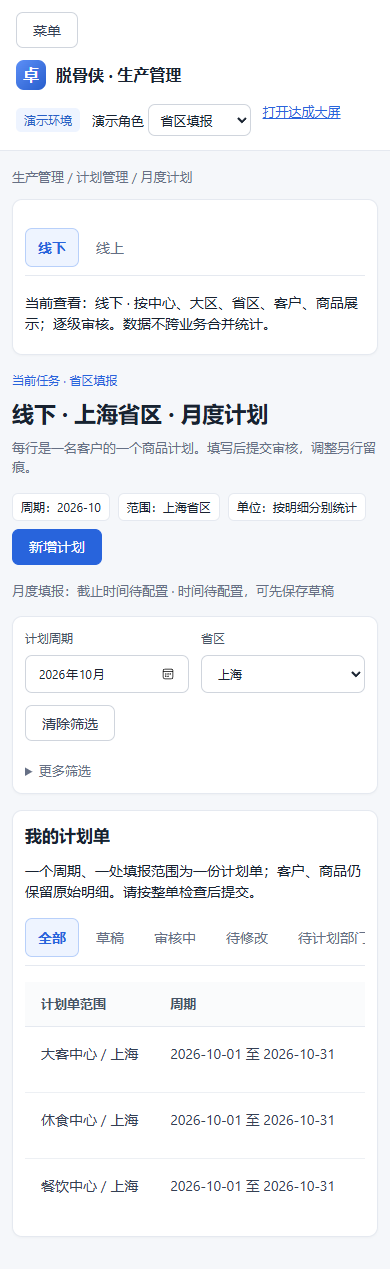
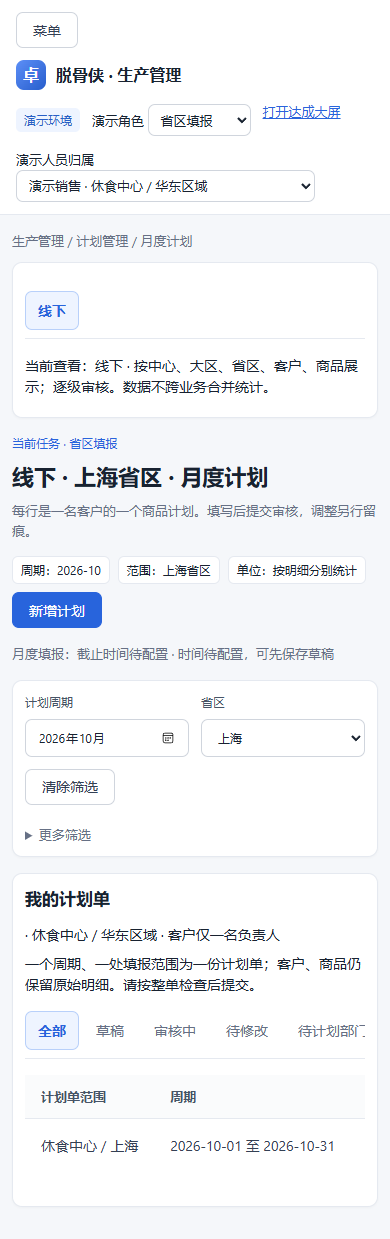
Auto sync 2026-10-13 09:41:20

diff --git a/09-设计与原型/销售计划管理/人员归属治理.js b/09-设计与原型/销售计划管理/人员归属治理.js
@@ -14,7 +14,7 @@
   if(a.view()==='plans'&&a.role()==='省区填报'){const user=person(d),province=document.querySelector('[data-filter=province]');if(province){province.innerHTML=user.provinces.map(v=>'<option value="'+E(v)+'" '+(a.filters().province===v?'selected':'')+'>'+E(v)+'</option>').join('');}document.querySelector('#planSheets h2')?.insertAdjacentText('afterend',' · '+user.center+' / '+user.area+' · 客户仅一名负责人');}
   if(a.view()==='salesHistory'||a.view()==='analysis'){const s=d.salesSync[a.filters().business],notice=document.createElement('p');notice.className='notice';notice.textContent='数据同步：'+(s.complete?'完整':'未确认完整')+' · 来源 '+s.source+' · 区间 '+(s.from||'待接入')+' 至 '+(s.to||'待接入')+' · 最近同步 '+(s.at||'待接入')+'。未完整同步的无记录不能视为零。';document.getElementById('content').prepend(notice);}
   if(a.view()==='demoStates'){document.querySelectorAll('[data-demo-open]').forEach(b=>{const v=d.demoScenarios.find(v=>v.id===b.dataset.demoOpen);if(v&&/承接|承诺|交付|待销售确认|重评/.test(v.name))b.closest('tr')?.remove();});}
-  if(a.view()==='monthRecap'){const card=document.createElement('section');card.className='card';card.innerHTML='<h3>月末复盘快照</h3><p>保存当前月份、业务、批准版本、销量来源口径及分摊结果；后续调整不覆盖已保存快照。只允许保存已结束月份。</p><button id="saveRecapSnapshot">保存月末快照</button><div id="snapshotList"></div>';document.getElementById('content').append(card);const show=()=>{card.querySelector('#snapshotList').innerHTML=d.recapSnapshots.filter(s=>s.business===a.filters().business).map((s,i)=>'<p>'+E(s.month)+' · '+E(s.at)+' · '+E(s.by)+' <button data-snapshot="'+s.id+'">查看固定结果</button></p>').join('');card.querySelectorAll('[data-snapshot]').forEach(b=>b.onclick=()=>{const s=d.recapSnapshots.find(s=>s.id===b.dataset.snapshot);a.modal('固定复盘快照',s.html);});};show();card.querySelector('#saveRecapSnapshot').onclick=()=>{const month=document.getElementById('recapMonth').value,now=new Intl.DateTimeFormat('sv-SE',{timeZone:'Asia/Shanghai'}).format(new Date()).slice(0,7);if(month>=now)return a.message('月份尚未结束，只能预览，不能保存月末快照。');const html=document.getElementById('monthRecap').innerHTML.replace(/<button\b[^>]*>[\s\S]*?<\/button>/g,'');d.recapSnapshots.push({id:'SNAP-'+Date.now(),month,business:a.filters().business,at:new Date().toISOString(),by:a.role(),html,versions:d.plans.filter(p=>SalesPlan.effective(p)&&p.business===a.filters().business&&PlanBusiness.canView(d,a.role(),p)).map(p=>({id:p.id,version:p.version,qty:p.qty,start:p.start,end:p.end})),sync:structuredClone(d.salesSync[a.filters().business]),returns:d.rules.returns,allocation:'calendar-days'});if(a.persist()){show();a.message('快照已保存，后续数据变化不会覆盖。');}};}
+  if(a.view()==='monthRecap'){const card=document.createElement('section');card.className='card';card.innerHTML='<h3>月末复盘快照</h3><p>保存当前月份、业务、批准版本、销量来源口径及分摊结果；后续调整不覆盖已保存快照。只允许保存已结束月份。</p><button id="saveRecapSnapshot">保存月末快照</button><div id="snapshotList"></div>';document.getElementById('content').append(card);const show=()=>{card.querySelector('#snapshotList').innerHTML=d.recapSnapshots.filter(s=>s.business===a.filters().business).map((s,i)=>'<p>'+E(s.month)+' · '+E(s.at)+' · '+E(s.by)+' <button data-snapshot="'+s.id+'">查看固定结果</button></p>').join('');card.querySelectorAll('[data-snapshot]').forEach(b=>b.onclick=()=>{const s=d.recapSnapshots.find(s=>s.id===b.dataset.snapshot);a.modal('固定复盘快照',s.html);});};show();card.querySelector('#saveRecapSnapshot').onclick=()=>{const month=document.getElementById('recapMonth').value,now=new Intl.DateTimeFormat('sv-SE',{timeZone:'Asia/Shanghai'}).format(new Date()).slice(0,7);if(month>=now)return a.message('月份尚未结束，只能预览，不能保存月末快照。');const copy=document.getElementById('monthRecap').cloneNode(true);copy.querySelectorAll('input,select').forEach(el=>{const text=document.createElement('span');text.textContent=el.tagName==='SELECT'?el.selectedOptions[0]?.textContent||el.value:el.value;el.replaceWith(text);});copy.querySelectorAll('button').forEach(el=>el.remove());const html=copy.innerHTML;d.recapSnapshots.push({id:'SNAP-'+Date.now(),month,business:a.filters().business,at:new Date().toISOString(),by:a.role(),html,versions:d.plans.filter(p=>SalesPlan.effective(p)&&p.business===a.filters().business&&PlanBusiness.canView(d,a.role(),p)).map(p=>({id:p.id,version:p.version,qty:p.qty,start:p.start,end:p.end})),sync:structuredClone(d.salesSync[a.filters().business]),returns:d.rules.returns,allocation:'calendar-days'});if(a.persist()){show();a.message('快照已保存，后续数据变化不会覆盖。');}};}
  }
  window.PersonGovernance={current:()=>person(currentData),initialize,person,visible,fill,proposalGuard,decorate};
 })();

diff --git a/09-设计与原型/销售计划管理/销售计划管理.css b/09-设计与原型/销售计划管理/销售计划管理.css
@@ -70,3 +70,4 @@ dialog .actions{flex-wrap:wrap}dialog .actions button{white-space:normal}
 .summary-tabs button[aria-pressed=true]{background:#eef4ff;border-color:#b8d0fa;color:var(--brand);font-weight:600}.history-query-dialog{max-width:1400px}.history-query-dialog .filters{display:flex;flex-wrap:wrap;gap:16px;padding:16px 0}.history-query-dialog .filters label{flex:1 1 180px;min-width:0}.history-query-dialog select,.history-query-dialog input{max-width:100%}.history-query-dialog [data-history-detail]{margin-top:24px}[data-history-error]:empty{display:none}
 body:not(.screen) header{position:fixed;top:0;left:0;right:0;z-index:12}body:not(.screen) main{padding-top:calc(var(--nav-top,58px) + 24px)}body:not(.screen) #stableSidebar{position:fixed;top:var(--nav-top,58px);left:0;bottom:0;height:calc(100dvh - var(--nav-top,58px));width:var(--sidebar-width);margin:0;border-radius:0;display:flex;flex-direction:column;flex-wrap:nowrap;overflow-y:auto;overscroll-behavior:contain;z-index:11}#stableSidebar>*{flex-shrink:0}#stableSidebar button{width:100%;min-height:42px;text-align:left;white-space:normal;height:auto}#stableSidebar .nav-more{width:100%;margin-top:16px}#sidebarToggle{display:none}@media(max-width:800px){#sidebarToggle{display:block}body:not(.screen) #stableSidebar{width:min(280px,85vw);box-shadow:8px 0 24px #17243e20;display:none;padding:16px 12px}body:not(.screen) #stableSidebar[data-mobile-open=true]{display:flex}body:not(.screen) main{padding-top:calc(var(--nav-top,100px) + 16px)}#stableSidebar .module-current,#stableSidebar .module-parent{width:100%}}
 .daily-sales-details{margin-top:16px;border-top:1px solid var(--line);padding-top:12px}.daily-sales-details>summary{min-height:36px;font-weight:600}.daily-chart-wrap{max-width:100%;overflow-x:auto;margin:16px 0}.daily-sales-chart{display:block;width:100%;min-width:480px;height:auto;min-height:220px;background:#fff}.daily-sales-chart text{font-size:12px;fill:#59677b}.daily-sales-details .table-wrap{max-height:260px}.daily-sales-chart circle:focus{outline:none;stroke:#173d71;stroke-width:3}
+body:not(.screen) header{height:auto;min-height:58px}#salesPerson{max-width:360px}.task-batch-check{min-height:16px;width:16px;height:16px;margin-right:8px}@media(max-width:800px){#salesPerson{width:100%;max-width:100%}header label{max-width:100%}}
